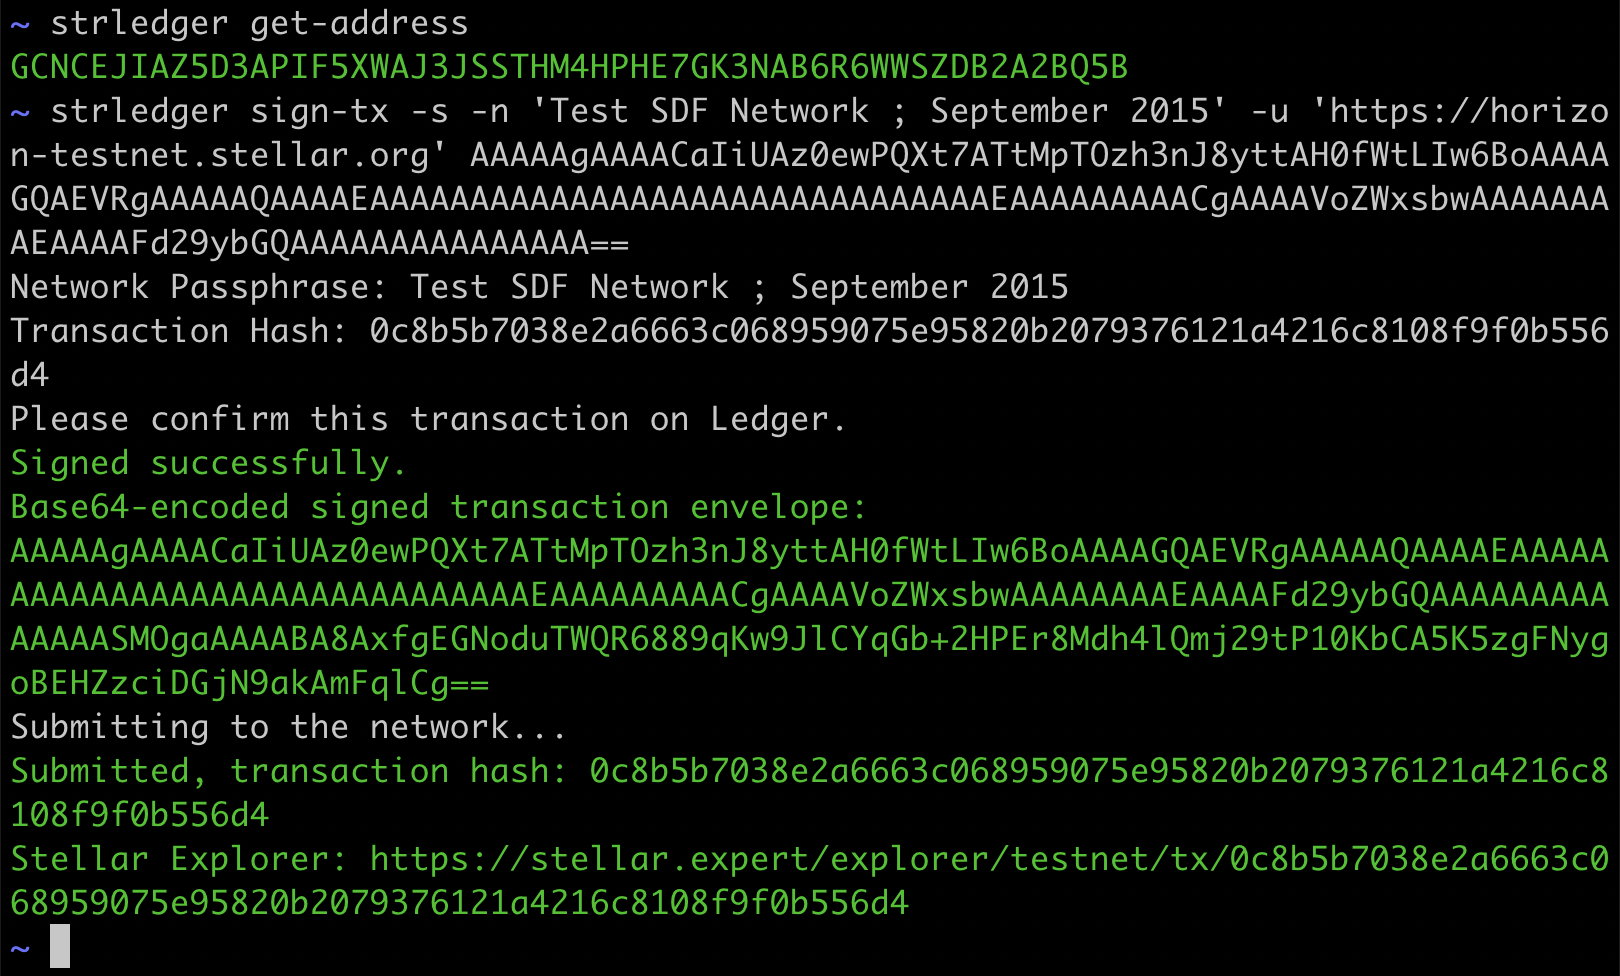
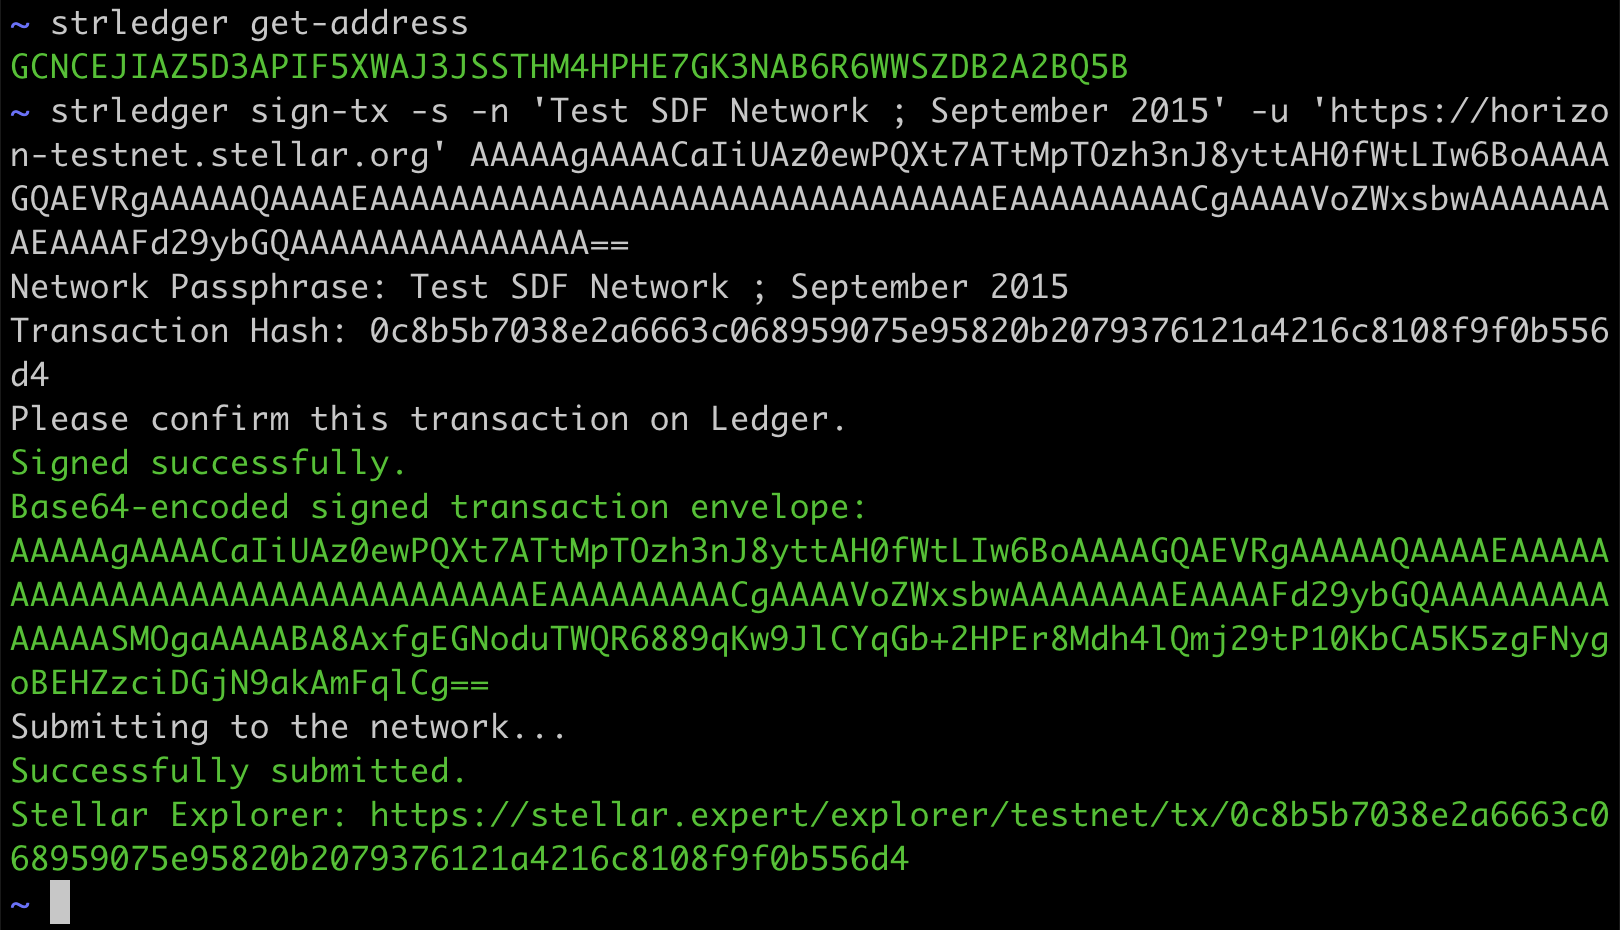
chore: remove duplicate prompts.

Changed region(s): [[0.0, 0.0, 1.0, 0.9355]]

diff --git a/strledger/cli.py b/strledger/cli.py
@@ -149,7 +149,7 @@ def sign_transaction(
             echo_error(e)
             sys.exit(1)
 
-        echo_success(f"Submitted, transaction hash: {tx_hash}")
+        echo_success(f"Successfully submitted.")
         if network_passphrase == Network.PUBLIC_NETWORK_PASSPHRASE:
             url = f"https://stellar.expert/explorer/public/tx/{tx_hash}"
         elif network_passphrase == Network.TESTNET_NETWORK_PASSPHRASE:

diff --git a/README.md b/README.md
@@ -1,6 +1,6 @@
 # strledger - Sign Stellar Transaction with Ledger on the command line.
 
-![example](./img/example.png)
+![example](https://github.com/overcat/strledger/blob/main/img/example.png)
 
 ## Installation
 ```shell
